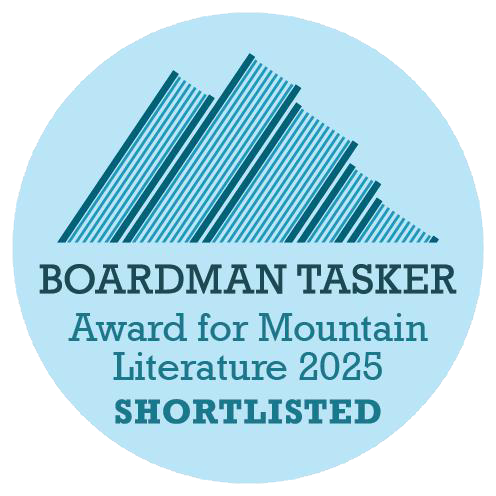
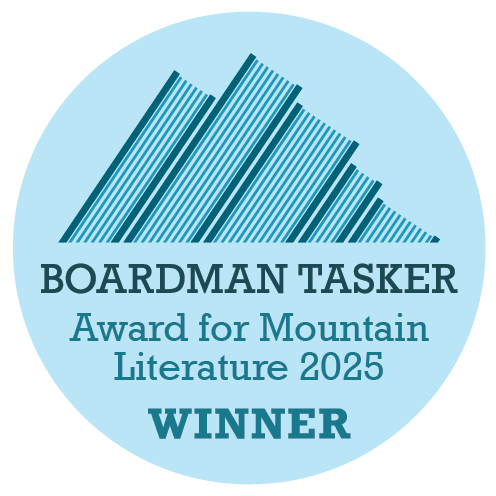
feat(Acclaim): Update page name, add photo, update award sticker

diff --git a/src/routes/acclaim/+page.svelte b/src/routes/acclaim/+page.svelte
@@ -1,0 +1,22 @@
+<script lang="ts">
+	import Quotes from '$lib/components/Quotes.svelte';
+	import { quotes } from '$lib/content/content';
+</script>
+
+<main class="px-6 md:px-12 xl:px-24 py-12 flex flex-col gap-6 xl:gap-12 bg-off-white">
+	<figure class="w-full lg:w-3/4 2xl:w-2/3 mx-auto flex flex-col gap-2">
+		<img
+			src="/BT2025.jpg"
+			alt="Iain Peters, winner of the Boardman Tasker Award for Mountain Literature 2025, alongside the
+		other shortlisted authors"
+		/>
+		<figcaption class="text-sm md:text-base xl:text-lg">
+			<i
+				>Iain Peters, winner of the Boardman Tasker Award for Mountain Literature 2025, alongside
+				the other shortlisted authors</i
+			>
+		</figcaption>
+	</figure>
+
+	<Quotes {quotes} />
+</main>

diff --git a/src/routes/+page.svelte b/src/routes/+page.svelte
@@ -1,14 +1,12 @@
 <script lang="ts">
 	import PageHeader from '$lib/components/PageHeader.svelte';
 	import Description from '$lib/components/Description.svelte';
-	import Quotes from '$lib/components/Quotes.svelte';
-	import { quotes } from '$lib/content/content';
 	import BuyNow from '$lib/components/BuyNow.svelte';
 	import OtherBooks from '$lib/components/OtherBooks.svelte';
 </script>
 
 <svelte:head>
-	<title>Iain Peters</title>
+	<title>Iain Peters - The Corridor</title>
 	<meta name="description" content="Website for author Iain Peters' book The Corridor" />
 	<meta name="keywords" content="Iain Peters, The Corridor, climbing, CSA, mountaineering" />
 	<meta property="og:title" content="Iain Peters" />

diff --git a/src/lib/components/PageHeader.svelte b/src/lib/components/PageHeader.svelte
@@ -18,7 +18,7 @@
 
 <div class="mb-28 md:mb-20 relative w-full h-screen">
 	<img
-		class="absolute w-[170px] lg:w-[185px] xl:w-[200px] z-10 left-4 top-6 lg:left-8 lg:top-12 xl:top-16 xl:left-12 2xl:top-20 2xl:left-16"
+		class="absolute w-[170px] lg:w-[200px] xl:w-[220px] z-10 left-4 top-6 lg:left-8 lg:top-12 xl:top-16 xl:left-12 2xl:top-20 2xl:left-16"
 		src="/boardman-tasker-sticker.png"
 		alt="A sticker explaining that the book has been shortlisted for the Boardman Tasker Award for Mountain Literature"
 	/>

diff --git a/src/lib/components/Quotes.svelte b/src/lib/components/Quotes.svelte
@@ -39,7 +39,7 @@
 
 <svelte:window bind:innerWidth={viewportWidth} />
 
-<div class="relative flex flex-col gap-16 xl:gap-24 px-0 xl:px-12">
+<div class="relative flex flex-col gap-12 xl:gap-16 px-0 xl:px-12 py-6 md:pt-12 xl:pb-12">
 	{#each quotes as quote, index}
 		{@const config = quoteConfigs[index]}
 		<div class="relative" style="width: 100%; max-width: 100%;">

diff --git a/src/lib/components/NavigationBar.svelte b/src/lib/components/NavigationBar.svelte
@@ -8,7 +8,7 @@
 
 	const navItems = [
 		{ label: 'Home', href: '/' },
-		{ label: 'Reviews', href: '/reviews' }
+		{ label: 'Acclaim', href: '/acclaim' }
 	];
 
 	let scrolled = false;
